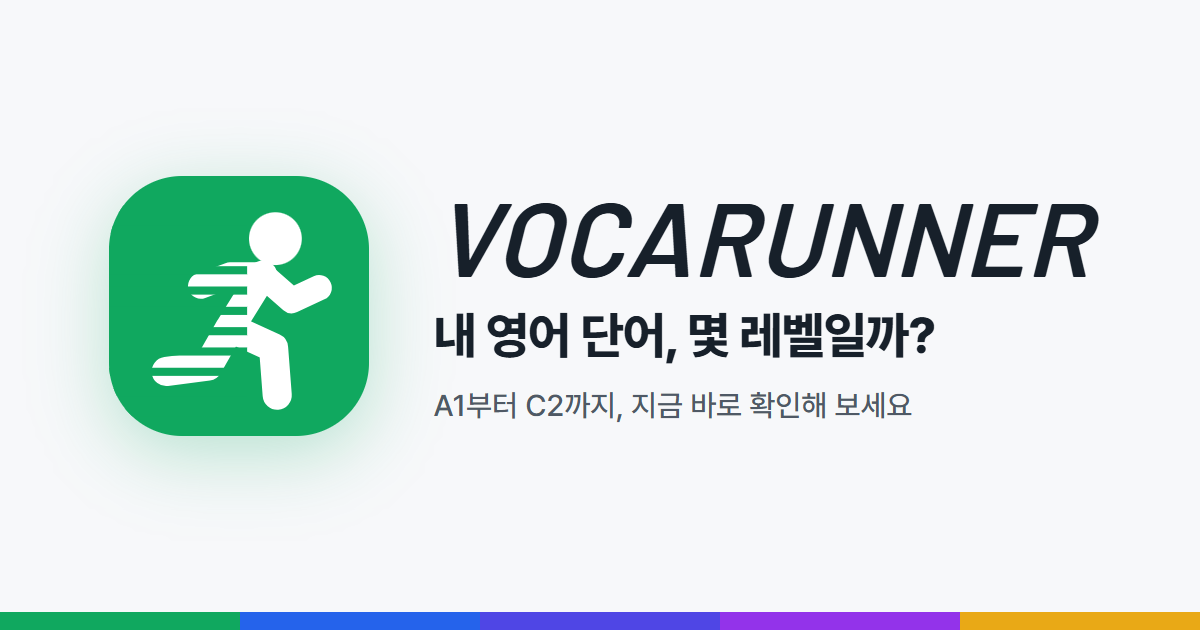
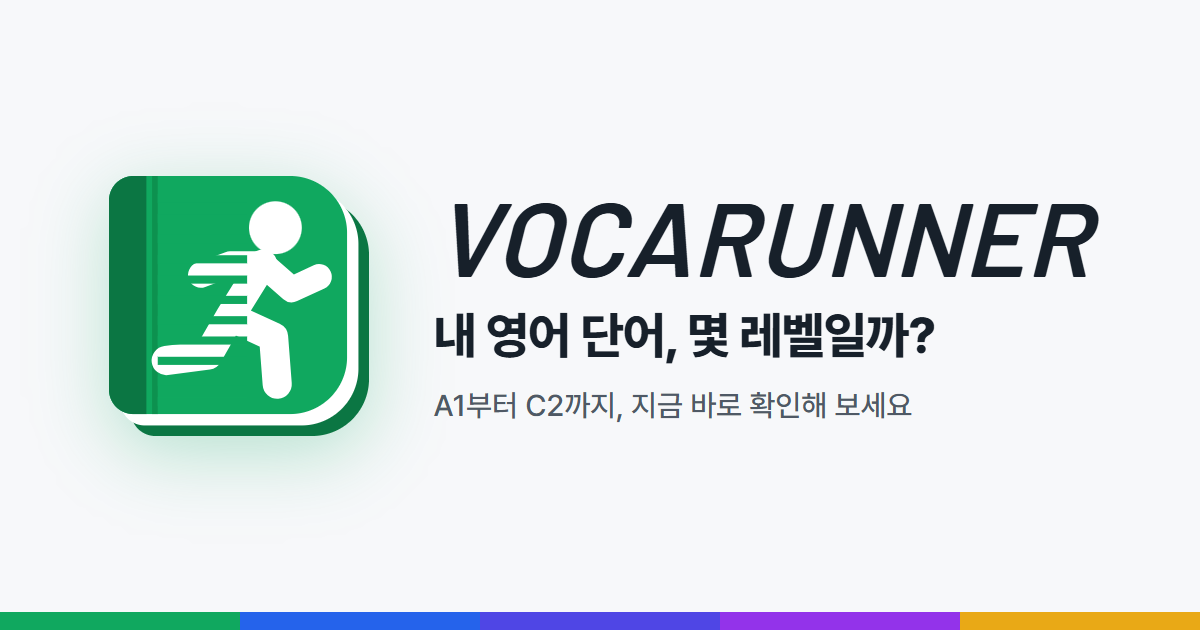
feat: 로고를 책 모양(책등 + 페이지 단면)으로 바꿈

Changed region(s): [[0.0925, 0.2714, 0.3083, 0.6937], [0.185, 0.3016, 0.2467, 0.3619], [0.2467, 0.2714, 0.2775, 0.3016]]

diff --git a/src/main/resources/templates/fragments/common.html b/src/main/resources/templates/fragments/common.html
@@ -27,29 +27,35 @@
 </head>
 <body>
 
-<!-- 로고 (달리는 사람 + 뒤쪽 줄무늬 + 글자). 파비콘(static/favicon.*)과 같은 그림 -->
+<!-- 로고 (책 표지에 달리는 사람 + 뒤쪽 줄무늬 + 글자). 파비콘(static/favicon.*)과 같은 그림 -->
 <span class="brand" th:fragment="brand">
     <svg class="brand-mark" viewBox="0 0 32 32" aria-hidden="true">
-        <defs><clipPath id="brand-mark-clip"><rect width="32" height="32" rx="9"></rect></clipPath></defs>
-        <rect width="32" height="32" rx="9" class="brand-mark-bg"></rect>
-        <g transform="translate(16 16) scale(1.12) translate(-15.6 -15)">
+        <defs><clipPath id="brand-mark-clip"><path d="M3 0H22.3A7 7 0 0 1 29.3 7V22.3A7 7 0 0 1 22.3 29.3H3A3 3 0 0 1 0 26.3V3A3 3 0 0 1 3 0Z"></path></clipPath></defs>
+        <!-- 페이지 단면 = 표지와 같은 모양을 오른쪽 아래로 밀어 겹침 (뒤 표지, 종이) -->
+        <path transform="translate(2.7 2.7)" d="M3 0H22.3A7 7 0 0 1 29.3 7V22.3A7 7 0 0 1 22.3 29.3H3A3 3 0 0 1 0 26.3V3A3 3 0 0 1 3 0Z" class="brand-mark-dark"></path>
+        <path transform="translate(1.4 1.4)" d="M3 0H22.3A7 7 0 0 1 29.3 7V22.3A7 7 0 0 1 22.3 29.3H3A3 3 0 0 1 0 26.3V3A3 3 0 0 1 3 0Z" fill="#FFFFFF"></path>
+        <path d="M3 0H22.3A7 7 0 0 1 29.3 7V22.3A7 7 0 0 1 22.3 29.3H3A3 3 0 0 1 0 26.3V3A3 3 0 0 1 3 0Z" class="brand-mark-bg"></path>
+        <!-- 책등 + 책등 선 -->
+        <path d="M3 0H4.6V29.3H3A3 3 0 0 1 0 26.3V3A3 3 0 0 1 3 0Z" class="brand-mark-dark"></path>
+        <rect x="5.3" y="0" width="0.7" height="29.3" class="brand-mark-line"></rect>
+        <g transform="translate(16 14.65) scale(1.12) translate(-15.6 -15)">
             <circle cx="19.6" cy="7.6" r="2.9" fill="#FFFFFF"></circle>
             <path d="M18.2 11.6 L14.6 17.4 L19.4 19.6 L19.8 24.8 M14.6 17.4 L12.2 21.6 L7.6 22.2" fill="none" stroke="#FFFFFF" stroke-width="3.2" stroke-linecap="round" stroke-linejoin="round"></path>
             <path d="M11.4 12.8 L14.6 11.6 L18.2 11.6 L21.4 14.4 L24.4 13" fill="none" stroke="#FFFFFF" stroke-width="2.8" stroke-linecap="round" stroke-linejoin="round"></path>
         </g>
-        <!-- 줄무늬 = 배경색 선을 사람 위에 겹쳐 그림 (속도감) -->
+        <!-- 줄무늬 = 표지색 선을 사람 위에 겹쳐 그림 (속도감, 책등 선 오른쪽부터) -->
         <g clip-path="url(#brand-mark-clip)" class="brand-mark-bg">
-            <rect x="0" y="3.6" width="17" height="1"></rect>
-            <rect x="0" y="6.1" width="17" height="1"></rect>
-            <rect x="0" y="8.6" width="17" height="1"></rect>
-            <rect x="0" y="11.1" width="17" height="1"></rect>
-            <rect x="0" y="13.6" width="17" height="1"></rect>
-            <rect x="0" y="16.1" width="17" height="1"></rect>
-            <rect x="0" y="18.6" width="17" height="1"></rect>
-            <rect x="0" y="21.1" width="17" height="1"></rect>
-            <rect x="0" y="23.6" width="17" height="1"></rect>
-            <rect x="0" y="26.1" width="17" height="1"></rect>
-            <rect x="0" y="28.6" width="17" height="1"></rect>
+            <rect x="6" y="2.25" width="11" height="1"></rect>
+            <rect x="6" y="4.75" width="11" height="1"></rect>
+            <rect x="6" y="7.25" width="11" height="1"></rect>
+            <rect x="6" y="9.75" width="11" height="1"></rect>
+            <rect x="6" y="12.25" width="11" height="1"></rect>
+            <rect x="6" y="14.75" width="11" height="1"></rect>
+            <rect x="6" y="17.25" width="11" height="1"></rect>
+            <rect x="6" y="19.75" width="11" height="1"></rect>
+            <rect x="6" y="22.25" width="11" height="1"></rect>
+            <rect x="6" y="24.75" width="11" height="1"></rect>
+            <rect x="6" y="27.25" width="11" height="1"></rect>
         </g>
     </svg>
     <span class="brand-name">VOCARUNNER</span>

diff --git a/src/main/resources/static/css/main.css b/src/main/resources/static/css/main.css
@@ -94,7 +94,9 @@ a { color: var(--primary-text); }
 /* ---------- 로고 ---------- */
 .brand { display: inline-flex; align-items: center; gap: 8px; }
 .brand-mark { width: 32px; height: 32px; flex: none; }
-.brand-mark-bg { fill: var(--primary); }
+.brand-mark-bg { fill: var(--primary); }            /* 표지·줄무늬 */
+.brand-mark-dark { fill: var(--primary-text); }     /* 책등·뒤 표지 */
+.brand-mark-line { fill: var(--primary-pressed); }  /* 책등 선 */
 .brand-name {
     font-family: var(--font-num);
     font-style: italic;
